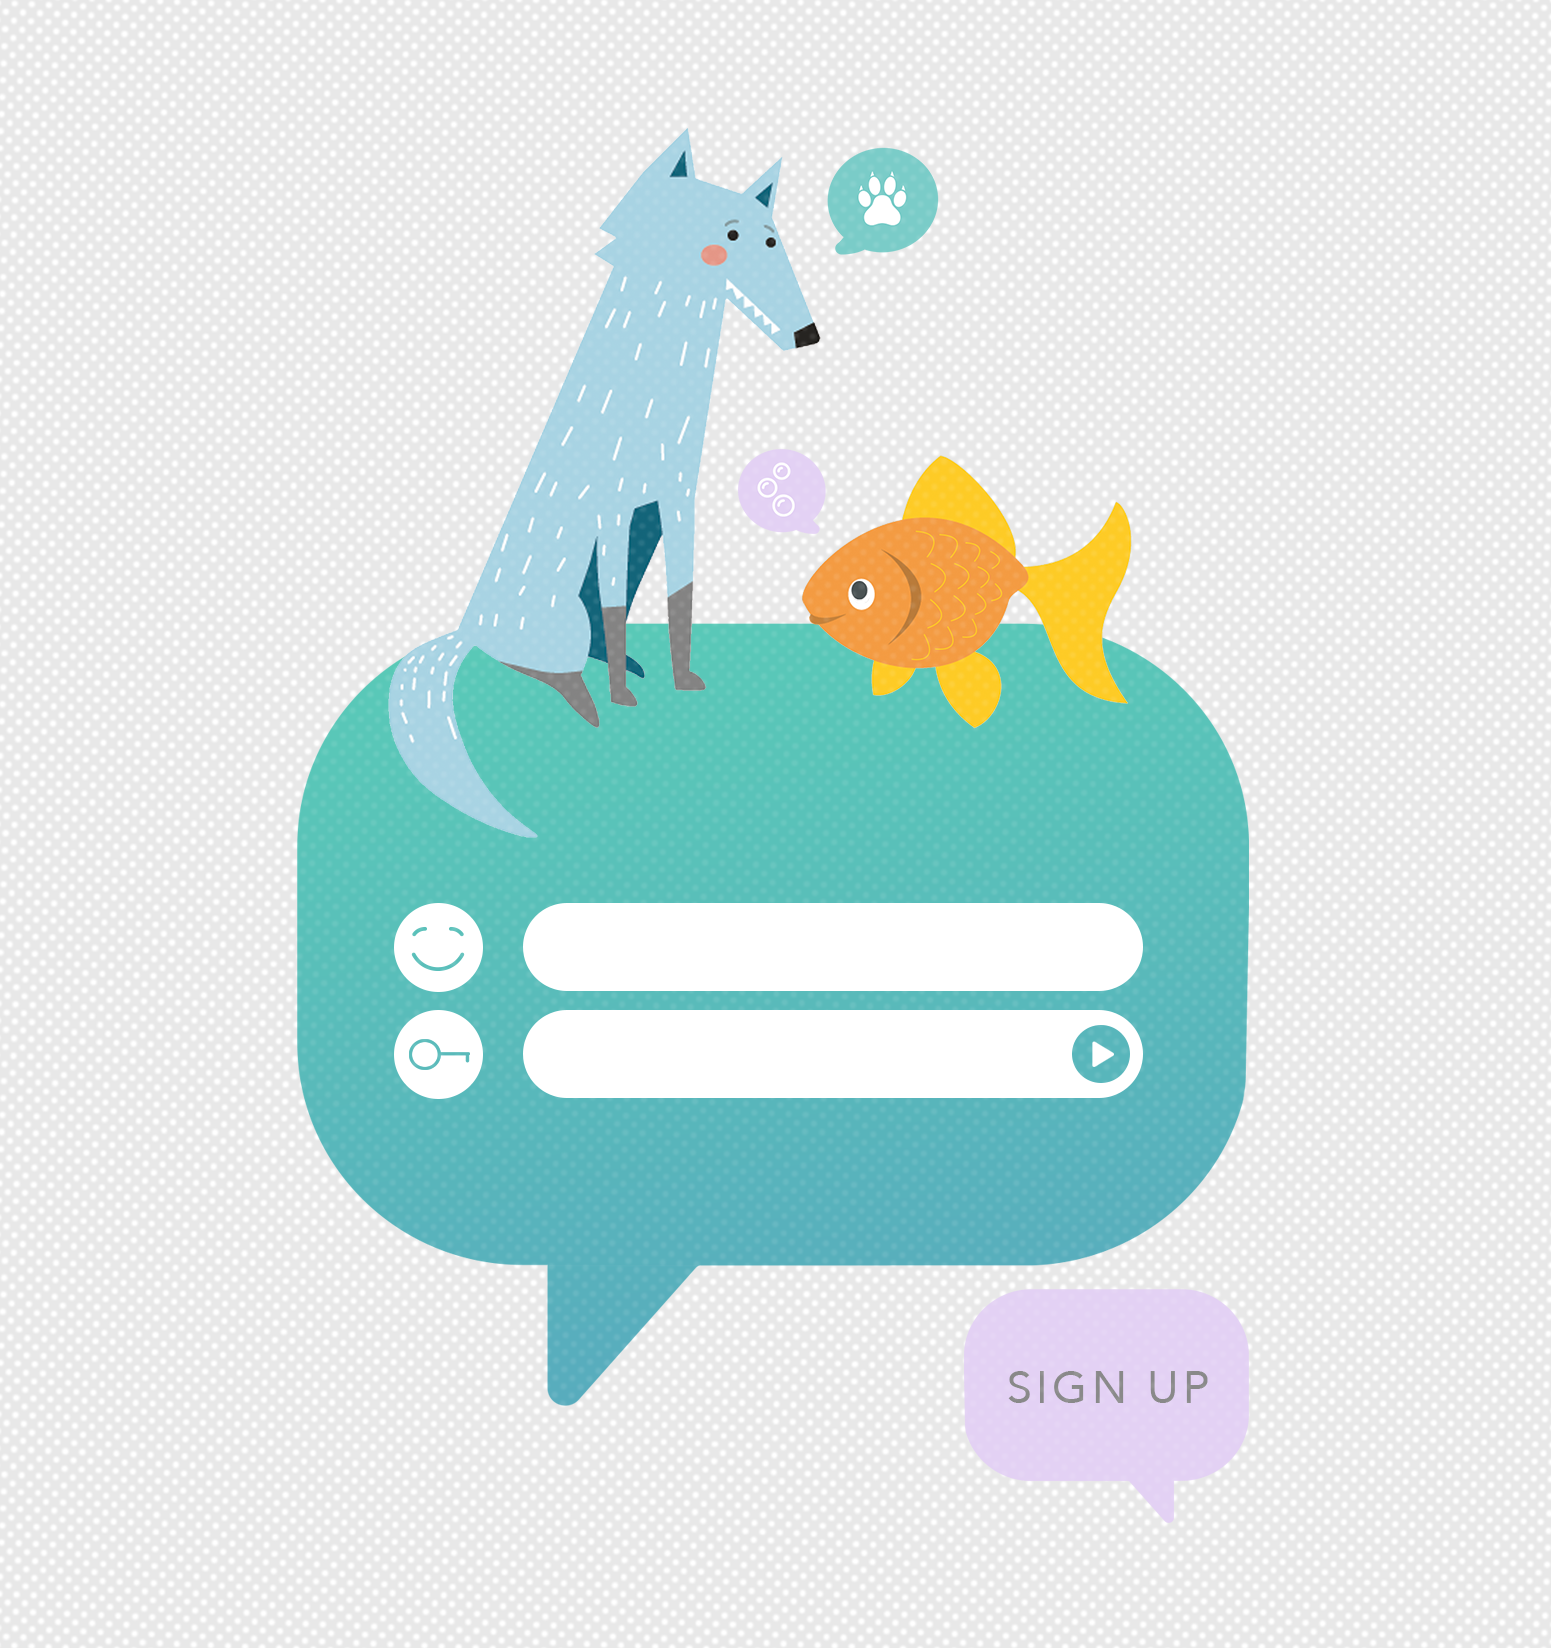
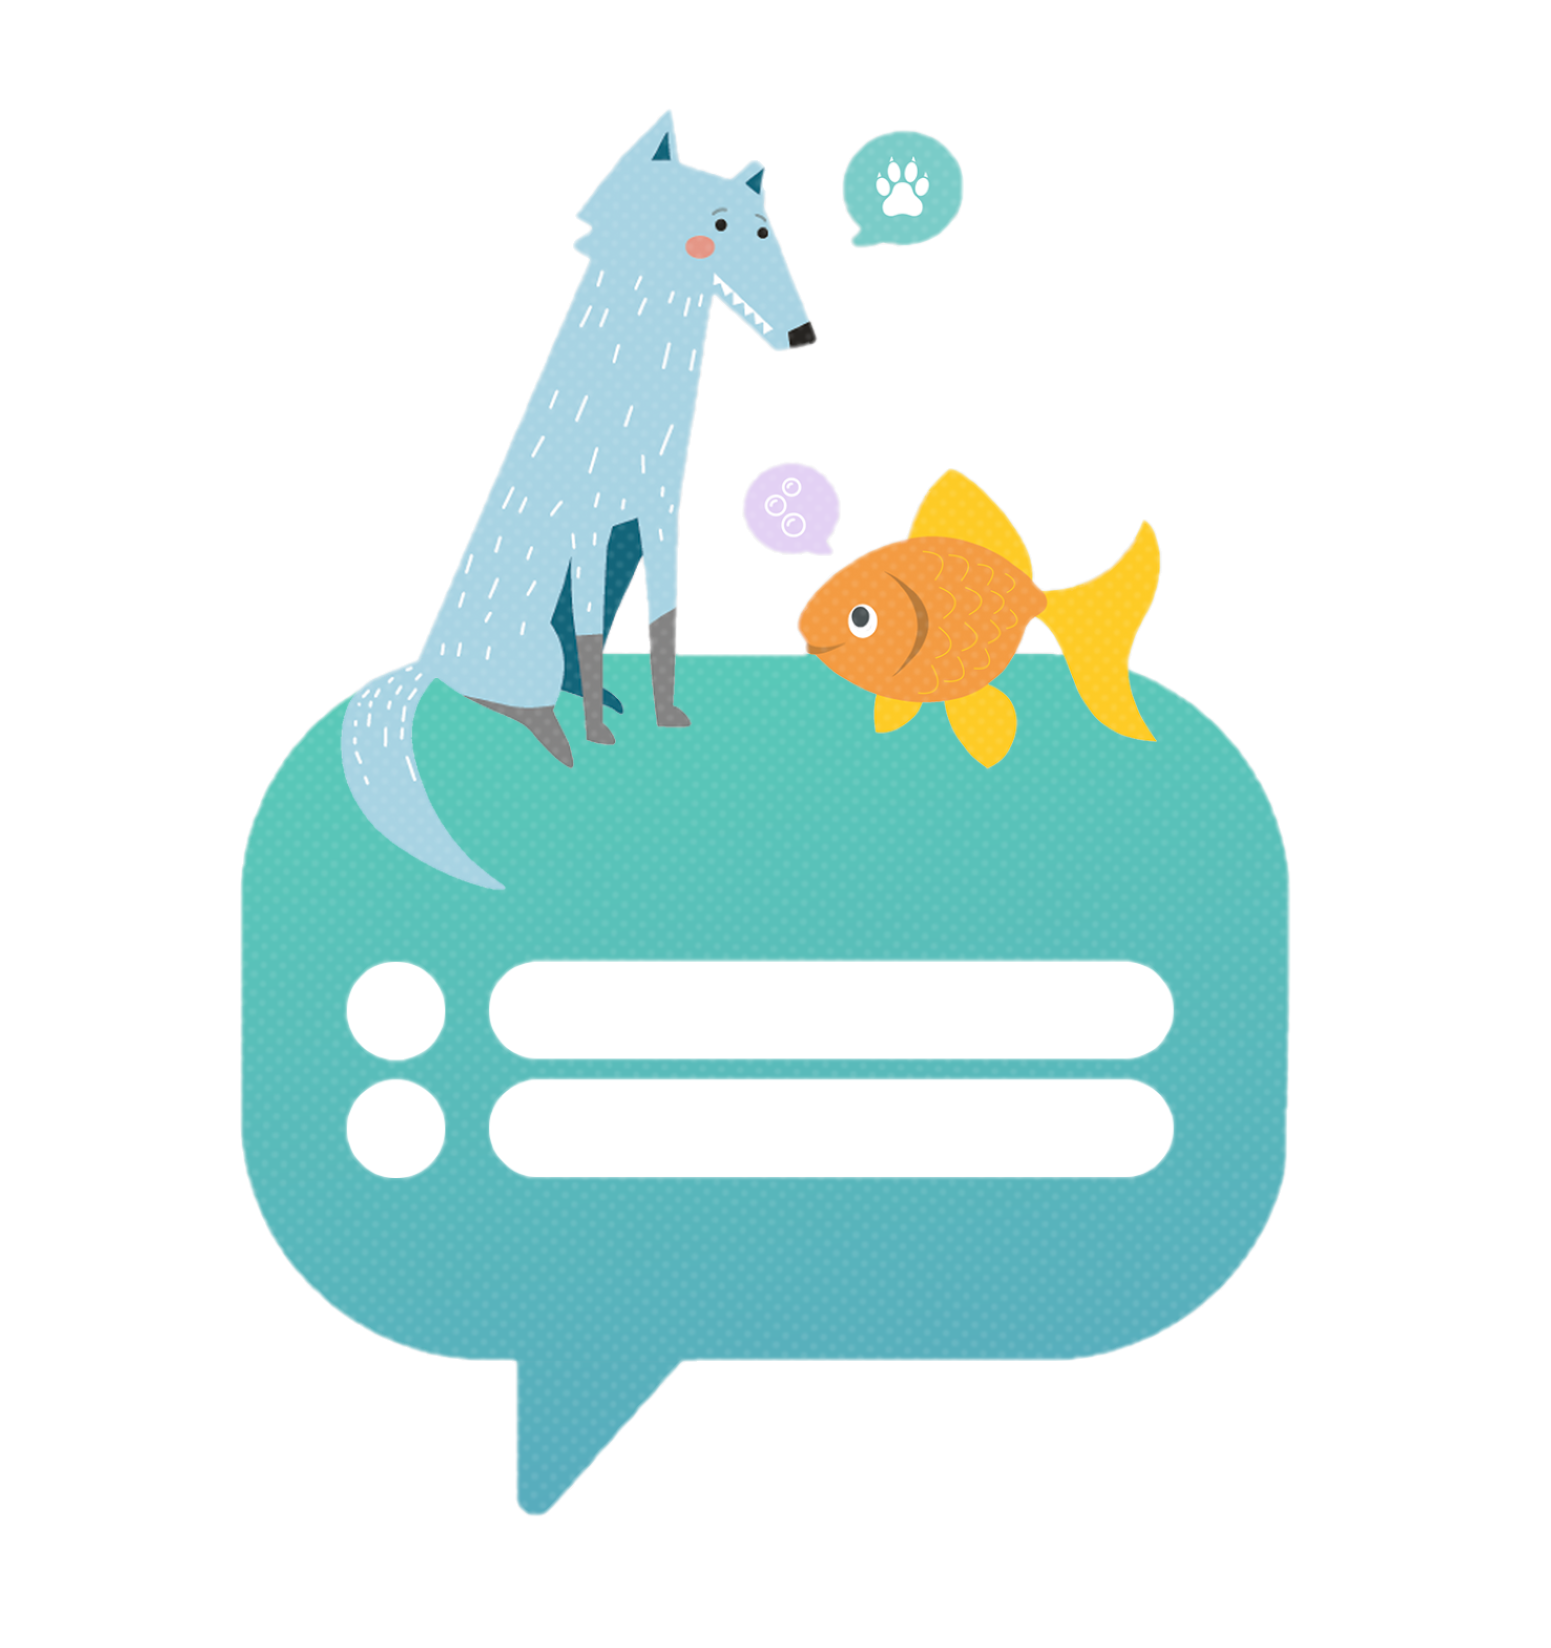
v1 pre deploy

Changed region(s): [[0.1547, 0.0619, 0.8356, 0.9284]]

diff --git a/client/src/js/containers/Login.js b/client/src/js/containers/Login.js
@@ -2,13 +2,35 @@ import React, { Component } from 'react';
 import styled from 'styled-components';
 import { BackgroundImage } from '../components';
 import { colour, api } from '../utils';
-import signup from '../../assets/Sign_Up_Illustration.png';
+import signupImg from '../../assets/Sign_Up_Illustration.png';
+import loginImg from '../../assets/Login_Illustration.png';
 import { withContext } from '../context';
 
 const Wrapper = styled.div`
 	display: flex;
 	justify-content: center;
 	align-items: center;
+`;
+
+const Button = styled.button`
+	position: relative;
+	top: ${props => props.top};
+	left: ${props => props.left};
+	border-radius: 16px;
+	width: 100px;
+	padding: 6px 10px;
+	background: ${colour.secondary};
+	color: #FFF;
+	border: 1px solid ${colour.secondary};
+	cursor: pointer;
+	letter-spacing: 1px;
+	transition: all .3s ease-in-out;
+	outline: 0;
+
+	&:hover {
+		background: #FFF;
+		color: ${colour.secondary};
+	}
 `;
 
 const Input = styled.input`
@@ -18,10 +40,10 @@ const Input = styled.input`
 	border-radius: 24px;
 	padding: 12px 10px 10px 10px;
 	border: 1px solid transparent;
-	background: rgba(0, 0, 0, 0);
+	background: #FFF;
 	outline: none;
 	height: 28px;
-	width: 180px;
+	width: ${props => props.width || '180px'};
 	color: ${colour.grey[0]};
 	font-size: 12px;
 	font-weight: 300;
@@ -40,7 +62,7 @@ const Input = styled.input`
 
 class Login extends Component {
 	state = {
-		login: false,
+		login: true,
 		email: '',
 		password: '',
 		confirmPassword: '',
@@ -53,13 +75,16 @@ class Login extends Component {
 
 	handleSignup = async event => {
 		event.preventDefault();
+		window.scrollTo(0,0);
 		const { email, password, confirmPassword } = this.state;
 
 		if (!email || !password || !confirmPassword) {
-			this.setState({ message: 'Fields canno be blank.' });
+			this.setMessage('Fields cannot be blank.');
+			return;
 		}
 		if (password !== confirmPassword) {
-			this.setState({ message: 'Passwords must match.' });
+			this.setMessage('Passwords must match.');
+			return;
 		}
 
 		const res = await api.signup({
@@ -70,9 +95,38 @@ class Login extends Component {
 		if (res.success) {
 			this.props.context.user.login(res.data);
 		} else {
-			this.setState({ message: res.message });
+			this.setMessage(res.message);
 		}
 	};
+
+	handleLogin = async event => {
+		event.preventDefault();
+		window.scrollTo(0,0);
+		const { email, password } = this.state;
+
+		if (!email || !password) {
+			this.setMessage('Fields cannot be blank.');
+			return;
+		}
+
+		const res = await api.login({
+			email,
+			password
+		});
+
+		if (res.success) {
+			this.props.context.user.login(res.data);
+		} else {
+			this.setMessage(res.message);
+		}
+	};
+
+	setMessage(message) {
+		this.setState({ message });
+		setTimeout(() => this.setState({ message: '' }), 3000);
+	}
+
+	selectLogin = login => this.setState({ login });
 
 	render() {
 		const { login, email, password, confirmPassword, message } = this.state;
@@ -81,15 +135,23 @@ class Login extends Component {
 			<Wrapper>
 				{
 					login ?
-					<BackgroundImage src={signup}>
-						<form>
+					<BackgroundImage src={loginImg}>
+						<Button
+							onClick={() => this.selectLogin(false)}
+							top='0'
+							left='-10px'
+						>
+							Signup
+						</Button>
+						<form onSubmit={this.handleLogin}>
 							<Input
 								name='email'
 								type='text'
 								value={email}
 								placeholder='EMAIL'
-								top='53px'
-								left='152px'
+								top='82px'
+								left='59px'
+								width='200px'
 								onChange={this.handleChange}
 							/>
 							<Input
@@ -97,14 +159,28 @@ class Login extends Component {
 								value={password}
 								type='password'
 								placeholder='PASSWORD'
-								top='84px'
-								left='-28px'
+								top='88px'
+								left='60px'
+								width='200px'
 								onChange={this.handleChange}
 							/>
+							<Button
+								type='submit'
+								onClick={this.handleLogin}
+								top='160px'
+								left='70px'
+							>
+								Login
+							</Button>
 						</form>
 					</BackgroundImage>
 					:
-					<BackgroundImage src={signup}>
+					<BackgroundImage src={signupImg}>
+						<Button
+							onClick={() => this.selectLogin(true)}
+						>
+							Login
+						</Button>
 						<form onSubmit={this.handleSignup}>
 							<Input
 								name='email'
@@ -112,7 +188,7 @@ class Login extends Component {
 								value={email}
 								placeholder='EMAIL'
 								top='53px'
-								left='152px'
+								left='83px'
 								onChange={this.handleChange}
 							/>
 							<Input
@@ -121,7 +197,7 @@ class Login extends Component {
 								value={password}
 								placeholder='PASSWORD'
 								top='84px'
-								left='-28px'
+								left='-97px'
 								onChange={this.handleChange}
 							/>
 							<Input
@@ -130,10 +206,17 @@ class Login extends Component {
 								value={confirmPassword}
 								placeholder='CONFIRM PASSWORD'
 								top='87px'
-								left='152px'
+								left='83px'
 								onChange={this.handleChange}
 							/>
-							<button type='submit' value='Submit' />
+							<Button
+								type='submit'
+								onClick={this.handleSignup}
+								top='150px'
+								left='90px'
+							>
+								Signup
+							</Button>
 						</form>
 					</BackgroundImage>
 				}

diff --git a/client/src/js/containers/Header.js b/client/src/js/containers/Header.js
@@ -51,11 +51,19 @@ const Slope = styled.div`
   z-index: -1;
 `;
 
+const Version = styled.div`
+  color: #FFF;
+  font-size: 10px;
+  position: absolute;
+  left: 2px;
+`;
+
 class Header extends Component {
 
   render() {
     return (
       <Wrapper>
+        <Version>version: 1.0.0</Version>
         <Inner>
           <h1>AWAREWOLF</h1>
         </Inner>

diff --git a/client/src/js/utils/api.js b/client/src/js/utils/api.js
@@ -14,7 +14,7 @@ class Api {
 
   login = data => {
     return this.makeRequest({
-      endpoint: '/signup',
+      endpoint: '/login',
       payload: {
         method: 'POST',
         headers: {
